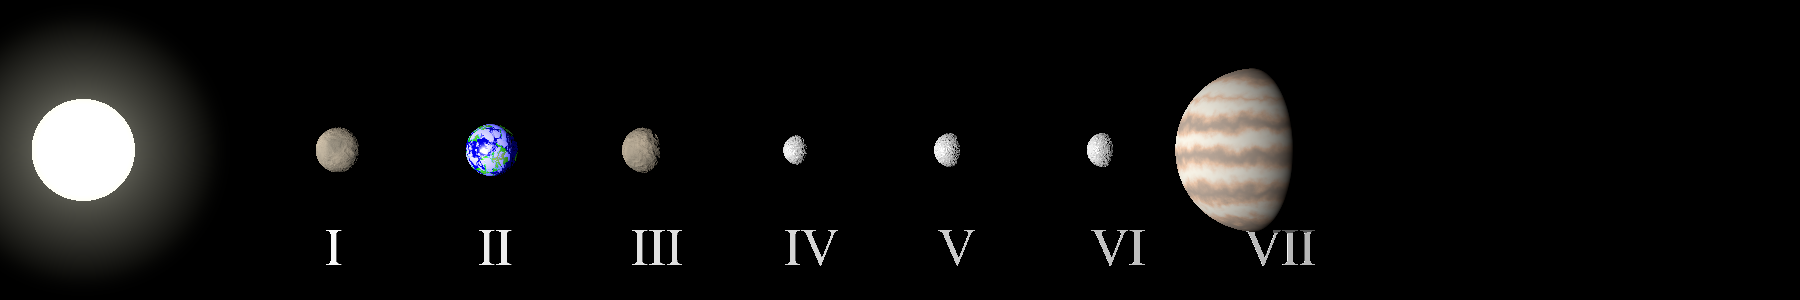
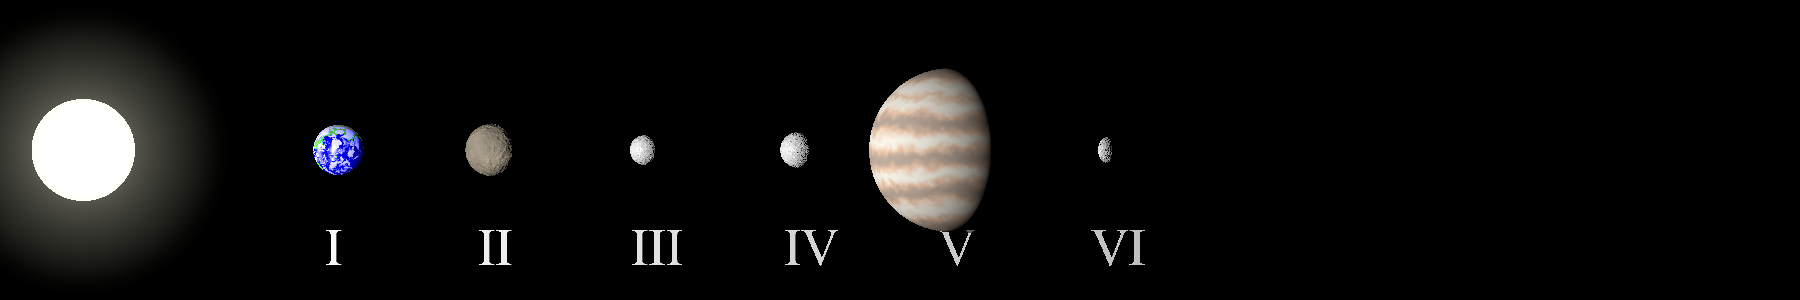
Add files via upload

diff --git a/acretee.cc b/acretee.cc
@@ -1,10 +1,10 @@
 
 
 //
-// acretee  v 0000.0000.0008b
+// acretee  v 0000.0000.0009a
 // based on acrete
 //
-// use own surface density profile, pov ray output
+// use own surface density profile, POV-Ray output
 //
 
 #include <iostream>
@@ -499,9 +499,8 @@ struct BandMaterial {
     BandMaterial() : dust_iron(0.0), dust_rock(0.0), dust_ice(0.0) {}
 };
 
-int generate_and_render_povray(std::vector<Nucleus> planets, int planetnum) ;
 
-void export_planets_to_csv(std::vector<Nucleus>  planets, std::string filename, double masslimit);
+
 double planet_surface_temperature_from_pressure(double S1_earths, double psurf_earths);
 
 double planet_surface_temperature_from_pressure(double S1_earths, double psurf_earths)
@@ -519,10 +518,17 @@ double planet_surface_temperature_from_pressure(double S1_earths, double psurf_e
     
     ts_planet = 25.3966 * pow((S1 + 0.0001325), 0.25) * ate;
     
+    if(ts_planet>3000) {
+		ts_planet= 25.3966 * pow((S1 + 0.0001325), 0.25);
+		}
+    
     return (ts_planet);
 	}
 
 
+int generate_and_render_povray(std::vector<Nucleus> planets, int planetnum) ;
+
+void export_planets_to_csv(std::vector<Nucleus>  planets, std::string filename, double masslimit);
 
 int main(int ac, char *av[])
 {
@@ -1081,6 +1087,11 @@ int main(int ac, char *av[])
 
 
 
+
+
+
+
+
 int generate_and_render_povray(std::vector<Nucleus> planets, int planetnum) {
 
     int counter=0;
@@ -1356,7 +1367,7 @@ fprintf(fp_pov, "\n");
 		 
 					}
 		 
-		//earthlike=1;
+	//	earthlike=1;
 		if(earthlike==1)
 		{
 				fprintf(fp_pov, "  texture {  \n");
@@ -1380,7 +1391,7 @@ fprintf(fp_pov, "\n");
 					fprintf(fp_pov, "  texture { // clouds  \n");
 				fprintf(fp_pov, "  pigment {  \n");
 			
-				fprintf(fp_pov, " granite  turbulence 1 \n");	
+				fprintf(fp_pov, " granite warp { turbulence 1 } \n");	
 				fprintf(fp_pov, " color_map { \n");			
 			
 				fprintf(fp_pov, "  [0.0 rgbt <0,0,0,1> ] \n");
@@ -1592,10 +1603,6 @@ void export_planets_to_csv(std::vector<Nucleus> planets,  std::string filename, 
     csv_file.close();
     std::cout << "Planet data exported to " << filename << std::endl;
 	
-
-	
-
-
 
 
 }
